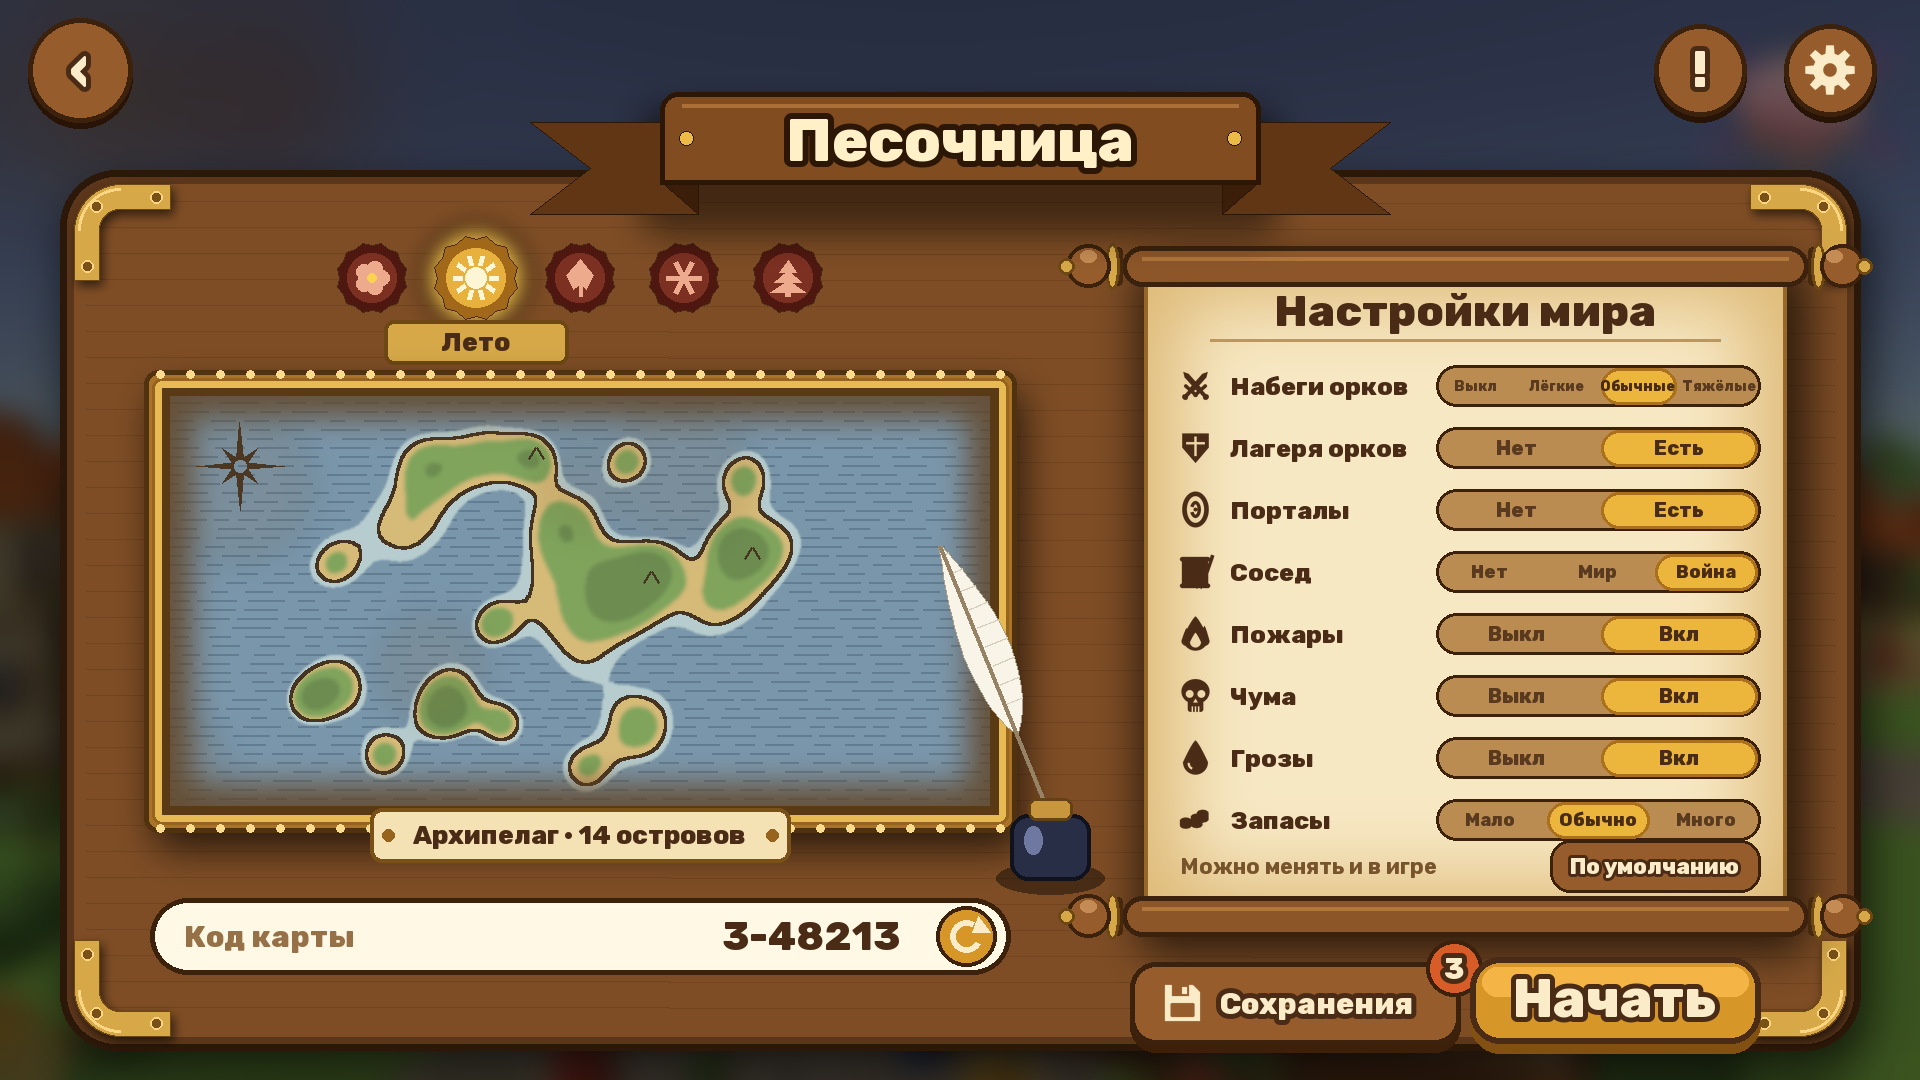
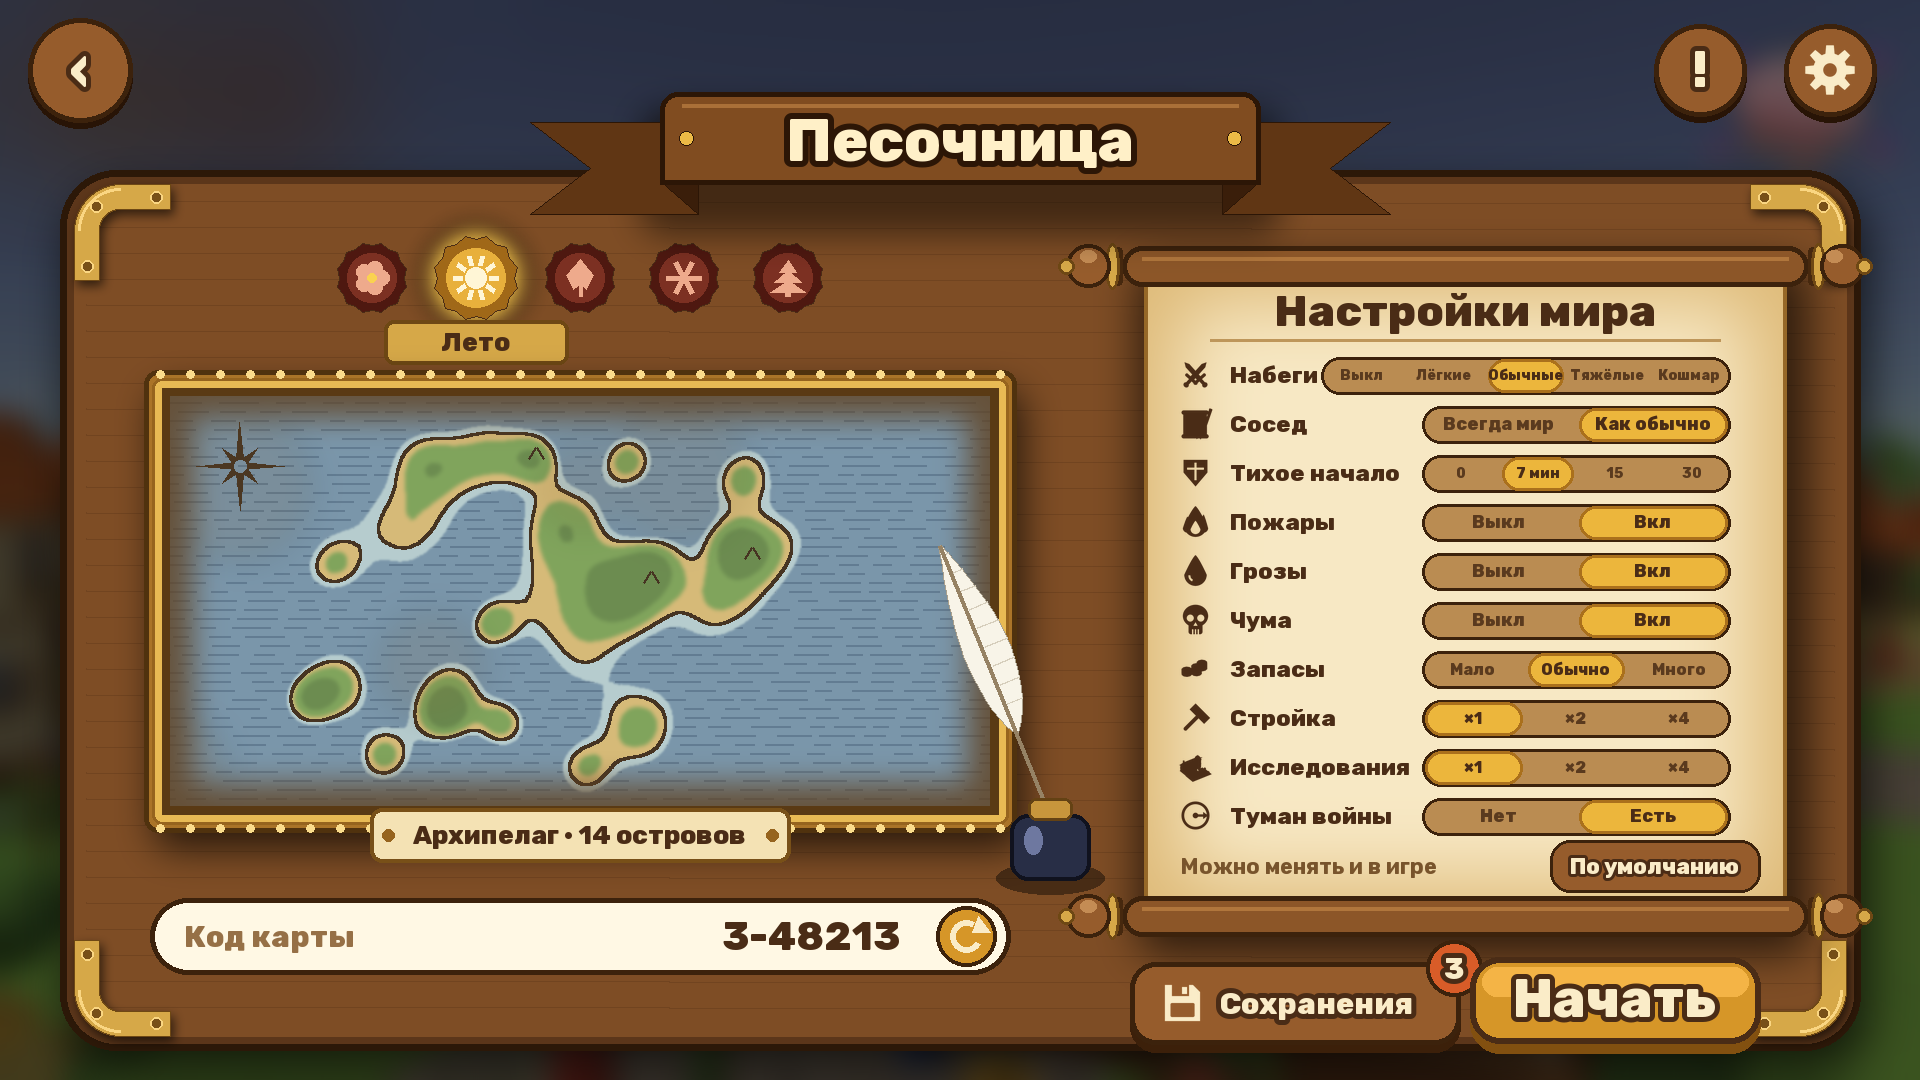
Sandbox freedom: piggy warning mock-up (rose plate + struck pigs on easier choices), the scroll shows the decided 10 settings

Changed region(s): [[0.5938, 0.3056, 0.9375, 0.7944]]

diff --git a/Tools/ui/sandbox_hub_concepts.py b/Tools/ui/sandbox_hub_concepts.py
@@ -166,21 +166,21 @@ def code_field(img, x, y, w):
     d.polygon([(c[0] + 12, c[1] - 20), (c[0] + 24, c[1] - 4), (c[0] + 6, c[1] - 4)], fill=CREAM)
 
 
-def toggle_row(img, x, y, w, item, small=False):
+def toggle_row(img, x, y, w, item, small=False, k=None):
     """A setting: its glyph, its name, its options as a segmented wooden bar (the picked one gold)."""
     name, title, options, picked = item
     d = ImageDraw.Draw(img)
-    s = 0.86 if small else 1.0
+    s = k if k else (0.86 if small else 1.0)
     put(img, tinted(any_icon(name, int(46 * s)), INK), (x + 26, y + 30 * s))
     text(d, (x + 60, y + 30 * s), title, int(30 * s), fill=INK, stroke=0, anchor='lm')
-    bx0 = x + w * 0.45
+    bx0 = x + w * (0.27 if len(options) >= 5 else 0.45)
     seg = (x + w - bx0) / len(options)
     d.rounded_rectangle((bx0, y + 6 * s, x + w, y + 54 * s), int(24 * s), fill=(186, 140, 82), outline=WOOD_D, width=3)
     for i, o in enumerate(options):
         sx = bx0 + i * seg
         if i == picked:
             d.rounded_rectangle((sx + 3, y + 9 * s, sx + seg - 3, y + 51 * s), int(21 * s), fill=GOLD, outline=GOLD_D, width=3)
-        size = int((24 if len(options) <= 2 else 21 if len(options) == 3 else 17) * s)
+        size = int((24 if len(options) <= 2 else 21 if len(options) == 3 else 19) * s)
         text(d, (sx + seg / 2, y + 30 * s), o, size, fill=INK if i == picked else (90, 58, 30), stroke=0)
 
 
@@ -672,7 +672,49 @@ def start_layer(scale, angle):
     return piece.rotate(angle, resample=Image.BICUBIC, expand=True)
 
 
-def screen_a3(start_scale=1.0, start_angle=0.0):
+def pig_glyph(d, c, r):
+    """A small pink pig's head (the piggy bank's sign) for the warning plate."""
+    x, y = c
+    pink, dark = (246, 160, 180), (150, 70, 90)
+    for s in (-1, 1):
+        d.polygon([(x + s * r * .45, y - r * .55), (x + s * r * .95, y - r * 1.0), (x + s * r * .8, y - r * .25)], fill=pink, outline=dark)
+    d.ellipse((x - r, y - r * .8, x + r, y + r * .9), fill=pink, outline=dark, width=3)
+    d.ellipse((x - r * .45, y + r * .05, x + r * .45, y + r * .6), fill=(236, 130, 156), outline=dark, width=2)
+    for s in (-1, 1):
+        d.ellipse((x + s * r * .2 - 3, y + r * .25, x + s * r * .2 + 3, y + r * .4), fill=dark)
+        d.ellipse((x + s * r * .45 - 4, y - r * .35, x + s * r * .45 + 4, y - r * .2), fill=(40, 20, 20))
+
+
+def piggy_warning(img, box):
+    """The scroll's foot when the world is easier than the default: a rose plate with the pig struck through,
+    «Задания копилки в этом мире не засчитываются» (the user, 2026-11-17: «игроку нужно предупреждение»)."""
+    d = ImageDraw.Draw(img)
+    x0, y0, x1, y1 = box
+    d.rounded_rectangle(box, 18, fill=(250, 214, 214), outline=(176, 70, 70), width=3)
+    c = (x0 + 38, (y0 + y1) / 2)
+    pig_glyph(d, c, 18)
+    d.line((c[0] - 22, c[1] + 20, c[0] + 22, c[1] - 20), fill=(200, 40, 40), width=6)
+    text(d, (x0 + 72, (y0 + y1) / 2 - 12), 'Задания копилки здесь', 22, fill=(130, 30, 30), stroke=0, anchor='lm')
+    text(d, (x0 + 72, (y0 + y1) / 2 + 13), 'не засчитываются', 22, fill=(130, 30, 30), stroke=0, anchor='lm')
+
+
+# the list the user decided (2026-11-17, card sandbox-freedom.md)
+FINAL = [
+    ('Swords', 'Набеги', ['Выкл', 'Лёгкие', 'Обычные', 'Тяжёлые', 'Кошмар'], 2),
+    ('Hud_Diplomacy', 'Сосед', ['Всегда мир', 'Как обычно'], 1),
+    ('Hud_Shield', 'Тихое начало', ['0', '7 мин', '15', '30'], 1),
+    ('Fire', 'Пожары', ['Выкл', 'Вкл'], 1),
+    ('Water', 'Грозы', ['Выкл', 'Вкл'], 1),
+    ('Skull', 'Чума', ['Выкл', 'Вкл'], 1),
+    ('Res_Coins', 'Запасы', ['Мало', 'Обычно', 'Много'], 1),
+    ('Hammer', 'Стройка', ['×1', '×2', '×4'], 0),
+    ('Laboratory', 'Исследования', ['×1', '×2', '×4'], 0),
+    ('Hud_Radius', 'Туман войны', ['Нет', 'Есть'], 1),
+]
+EASY = {0: 1, 3: 0}      # the warning's example: raids «Лёгкие», fires «Выкл»
+
+
+def screen_a3(start_scale=1.0, start_angle=0.0, easy=False):
     img = background()
     frame = (60, 170, W - 60, H - 30)
     img = wood_frame(img, frame, 56)
@@ -688,12 +730,23 @@ def screen_a3(start_scale=1.0, start_angle=0.0):
     text(d, ((box[0] + box[2]) / 2, 310), 'Настройки мира', 44, fill=INK, stroke=0)
     d.line((box[0] + 80, 340, box[2] - 80, 340), fill=(190, 150, 90), width=3)
     rows = layer()
-    for i, item in enumerate(SETTINGS[:8]):
-        toggle_row(rows, box[0] + 40, 360 + i * 62, box[2] - box[0] - 80, item, small=True)
+    for i, item in enumerate(FINAL):
+        if easy and i in EASY:
+            item = item[:3] + (EASY[i],)
+        ry = 352 + i * 49
+        toggle_row(rows, box[0] + 40, ry, box[2] - box[0] - 110, item, small=True, k=0.78)
+        if easy and i in EASY:          # the easier choice marked with the struck pig, just left of its bar
+            dd = ImageDraw.Draw(rows)
+            c = (box[2] - 46, ry + 24)      # right of its bar
+            pig_glyph(dd, c, 9)
+            dd.line((c[0] - 11, c[1] + 10, c[0] + 11, c[1] - 10), fill=(200, 40, 40), width=3)
     img = Image.alpha_composite(img, rows)
     d = ImageDraw.Draw(img)
     y = 866
-    text(d, (box[0] + 50, y), 'Можно менять и в игре', 22, fill=(120, 84, 44), stroke=0, anchor='lm', heavy=False)
+    if easy:
+        piggy_warning(img, (box[0] + 36, y - 30, box[2] - 262, y + 30))
+    else:
+        text(d, (box[0] + 50, y), 'Можно менять и в игре', 22, fill=(120, 84, 44), stroke=0, anchor='lm', heavy=False)
     d.rounded_rectangle((box[2] - 250, y - 26, box[2] - 40, y + 26), 20, fill=(150, 92, 44), outline=WOOD_D, width=3)
     text(d, (box[2] - 145, y), 'По умолчанию', 22, stroke=3)
     saves_plaque(img, 1130, 962, 330)
@@ -707,6 +760,11 @@ def screen_a3(start_scale=1.0, start_angle=0.0):
 
 def concept_a3():
     return screen_a3()
+
+
+def concept_a3_piggy():
+    return screen_a3(easy=True)
+
 
 
 def concept_a3_pulse():
@@ -793,7 +851,8 @@ def main():
     os.makedirs(OUT, exist_ok=True)
     for name, fn in (('A', concept_a), ('B', concept_b), ('C', concept_c), ('A2_Locked', concept_a2),
                      ('A2_Open', lambda: concept_a2('open')), ('A2_Saves', concept_a2_saves),
-                     ('A3', concept_a3), ('A3_Banner', concept_a3_banner)):
+                     ('A3', concept_a3), ('A3_Banner', concept_a3_banner),
+                     ('A3_PiggyWarning', concept_a3_piggy)):
         if len(sys.argv) > 1 and name not in sys.argv[1:]:
             continue
         fn().convert('RGB').save(OUT + 'SandboxHub_%s.png' % name, optimize=True)

diff --git a/Design/features/sandbox-freedom.md b/Design/features/sandbox-freedom.md
@@ -1,6 +1,6 @@
 # «Свобода песочницы» — paid world settings
 
-**Status (2026-11-17): DECIDED, NOT BUILT.** The look is approved (see [hud-and-ui](hud-and-ui.md), SANDBOX MENU
+**Status (2026-11-17): DECIDED, NOT BUILT; the piggy warning mock-up awaits the user.** The look is approved (see [hud-and-ui](hud-and-ui.md), SANDBOX MENU
 REDESIGN: `Design/ui/SandboxHub_A3.png`, `_A3_StartPulse.gif`, `_A3_Banner.png`); the list and the rules below are
 the user's answers of 2026-11-17. Related: [monetization](monetization.md), [piggy-bank](piggy-bank.md),
 [save-load](save-load.md).
@@ -35,6 +35,11 @@ In the game the settings that cannot change show their value greyed with a small
 - Piggy (the user chose A): if ANY setting is easier than the default (raids below Обычные, neighbour «Всегда мир»,
   quiet start longer than 7, a disaster off, more start goods, faster build/research, no fog), the piggy's TASKS do not
   count in that world; the piggy's per-minute filling goes on as everywhere. Harder settings give nothing extra (for now).
+- THE PLAYER IS WARNED (the user, 2026-11-17: «игроку нужно предупреждение про копилку»), mock-up
+  `Design/ui/SandboxHub_A3_PiggyWarning.png`: while the world is easier, the scroll's foot shows a rose plate with a
+  struck-through pig «Задания копилки здесь не засчитываются» (in place of «Можно менять и в игре»), and each easier
+  choice gets a small struck pig right of its bar. Proposed too (not drawn): the same line on the piggy window's tasks
+  column inside such a world. Not approved yet.
 - The numbers (factors of each level, the quiet-start minutes, the start goods per level, the price) go to the sheet.
 
 ## Ideas parked
